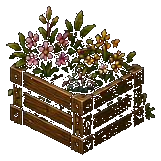
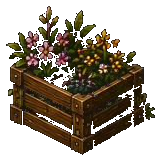
fix(assets): bouche les trous enclavés dans les bâtiments/structures
Les sprites de bâtiments (extraits dans une ancienne session) étaient criblés
de trous transparents enclavés (jusqu'à ~4,6% de la surface), laissant voir le
fond à travers toits/murs en jeu ("masque de fusion bizarre").

- Nouvel outil tools/fill_holes.py : remplit uniquement les trous enclavés de
  surface <= 80px (artefacts) avec la couleur opaque voisine ; préserve les
  grandes zones transparentes voulues (verre des serres).
- Appliqué à 28 bâtiments/structures (house1-5, serre1-4, cabin, atelier1,
  watertower, forge, well, fountain, cuve, arch, bench, lamp, cart, barrel,
  crate, compost, planter, fence1-4) : 28 482 px de trous bouchés.
- Aucun changement de clés (PACK/manifest intacts, 170=170=170) : seuls des
  pixels transparents parasites sont remplis. Bâtiments identiques, sans trous.

Validé en jeu (Playwright 393x844 DPR2) : ville propre, verre des serres OK.

Claude-Session: https://claude.ai/code/session_011BgNymgkY9zGPhkEnpAHHH

diff --git a/tools/fill_holes.py b/tools/fill_holes.py
@@ -1,0 +1,90 @@
+#!/usr/bin/env python3
+"""
+fill_holes.py — bouche les TROUS enclavés (pixels transparents parasites) dans les
+PNG runtime, sans toucher aux grandes zones transparentes voulues (verre des serres).
+
+Cause du bug : d'anciennes extractions (composantes connexes + seuil alpha) ont percé
+des trous à l'intérieur des sprites (surtout les bâtiments) → on voit le fond à travers.
+
+Méthode : pour chaque trou enclavé (région transparente NON connectée au bord) de surface
+<= max_hole px, on le remplit avec la couleur opaque la plus proche et alpha=255.
+Les grandes zones (verre, arches ouvertes) dépassent le seuil → intactes.
+
+Usage :
+  python3 tools/fill_holes.py                 # dry-run : rapport des trous par clé
+  python3 tools/fill_holes.py --write          # applique aux clés STRUCTURES
+  python3 tools/fill_holes.py --write k1 k2     # applique à des clés précises
+  python3 tools/fill_holes.py --max-hole 120    # ajuste le seuil de taille
+"""
+import sys
+from pathlib import Path
+import numpy as np
+from PIL import Image
+from scipy import ndimage
+
+RUNTIME = Path(__file__).resolve().parent.parent / "02_Asset" / "runtime"
+
+# Bâtiments / structures / props man-made (la "ville")
+STRUCTURES = [
+    "house1", "house2", "house3", "house4", "house5",
+    "serre1", "serre2", "serre3", "serre4",
+    "cabin", "atelier1", "watertower", "forge", "well", "fountain", "cuve", "arch",
+    "bench", "lamp", "cart", "barrel", "crate", "compost", "planter",
+    "fence1", "fence2", "fence3", "fence4",
+]
+
+
+def fill_small_holes(im, max_hole=80):
+    """Retourne (image_corrigée, nb_px_bouchés). Ne remplit que les trous <= max_hole."""
+    arr = np.asarray(im.convert("RGBA")).copy()
+    a = arr[:, :, 3]
+    opaque = a > 32
+    transp = ~opaque
+    lbl, n = ndimage.label(transp)
+    if n == 0:
+        return Image.fromarray(arr), 0
+    border = set(np.unique(np.concatenate([lbl[0], lbl[-1], lbl[:, 0], lbl[:, -1]])))
+    sizes = ndimage.sum(np.ones_like(a), lbl, range(1, n + 1))
+    tofill = np.zeros_like(opaque)
+    for i in range(1, n + 1):
+        if i in border:
+            continue
+        if sizes[i - 1] <= max_hole:
+            tofill |= (lbl == i)
+    nfill = int(tofill.sum())
+    if nfill:
+        inds = ndimage.distance_transform_edt(~opaque, return_distances=False, return_indices=True)
+        for ch in range(3):
+            src = arr[:, :, ch][tuple(inds)]
+            arr[:, :, ch][tofill] = src[tofill]
+        arr[:, :, 3][tofill] = 255
+    return Image.fromarray(arr), nfill
+
+
+def main(argv):
+    write = "--write" in argv
+    max_hole = 80
+    if "--max-hole" in argv:
+        max_hole = int(argv[argv.index("--max-hole") + 1])
+    keys = [a for a in argv[1:] if not a.startswith("--") and a != str(max_hole)] or STRUCTURES
+
+    total = 0
+    for k in keys:
+        p = RUNTIME / (k + ".png")
+        if not p.exists():
+            print("  (absent)", k); continue
+        im = Image.open(p)
+        fixed, nf = fill_small_holes(im, max_hole)
+        total += nf
+        print("  %-11s %+d px%s" % (k, nf, "" if write else "  (dry-run)"))
+        if write and nf:
+            fixed.save(p, "PNG", optimize=True)
+
+    print("\nTotal px bouchés : %d sur %d clés (seuil %dpx)%s" % (
+        total, len(keys), max_hole, "" if write else " — DRY-RUN, rien écrit"))
+    if write:
+        print("→ Valide visuellement (screenshot in-game) AVANT de committer.")
+
+
+if __name__ == "__main__":
+    main(sys.argv)
